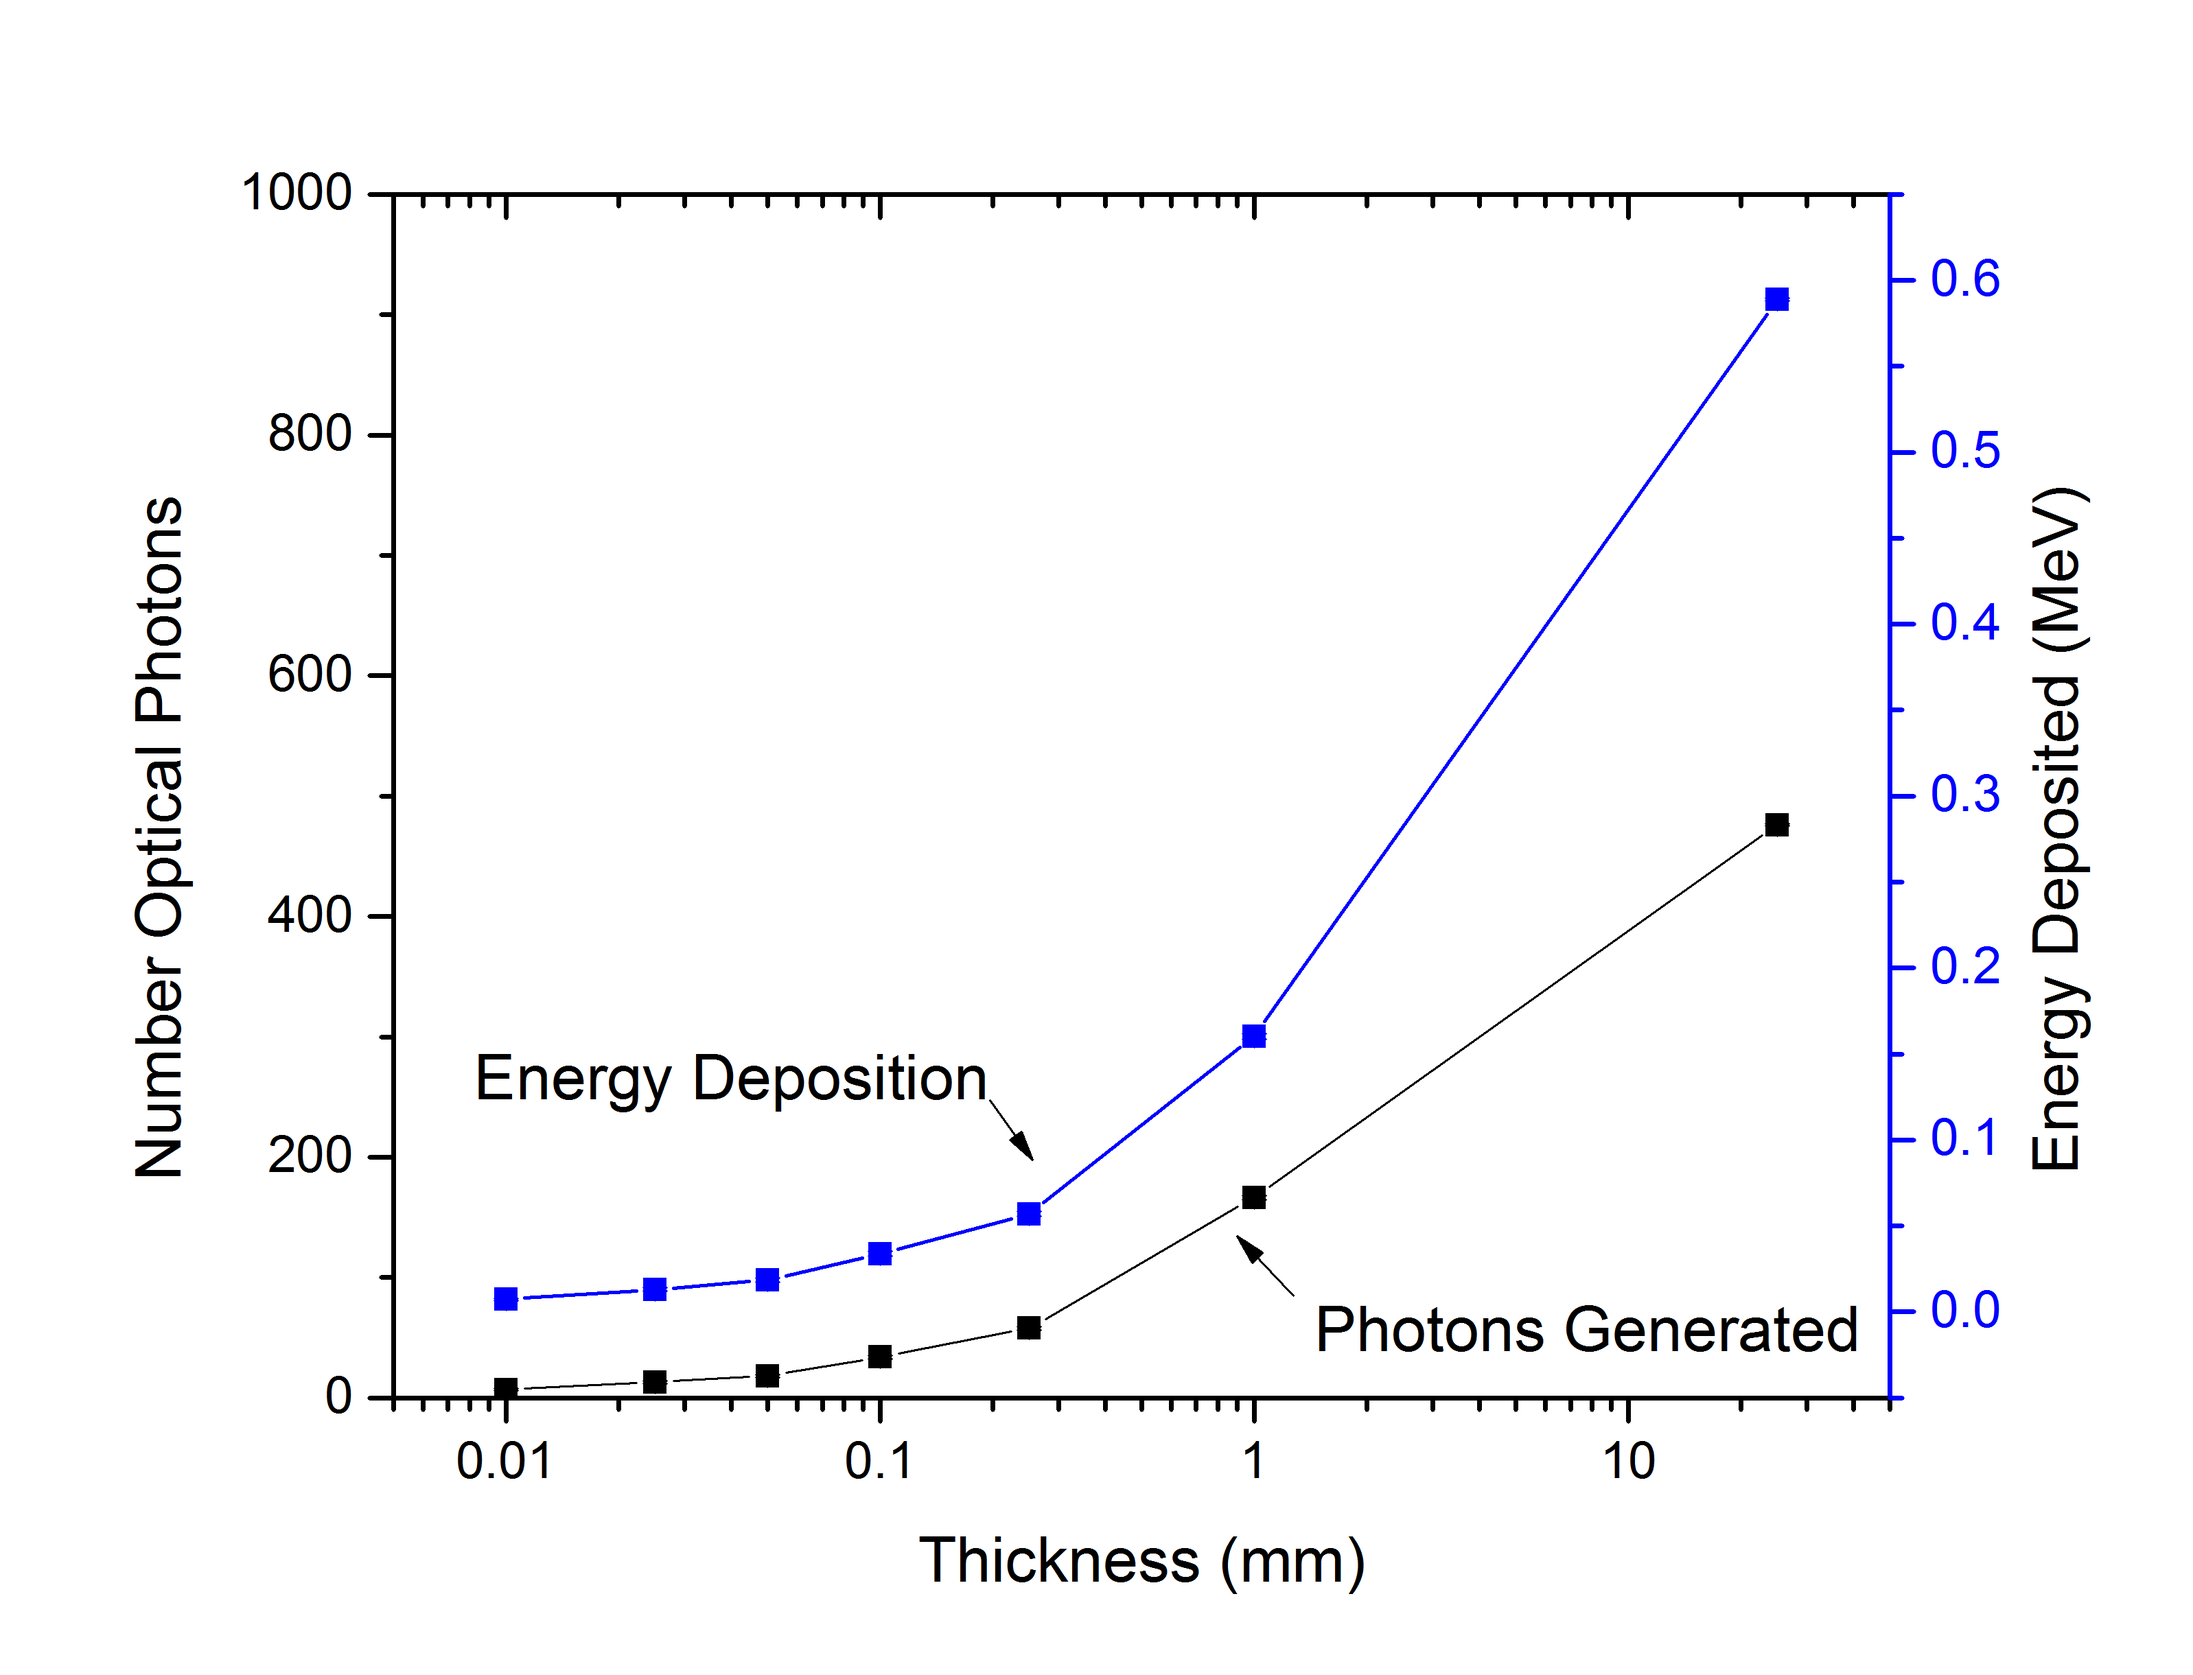
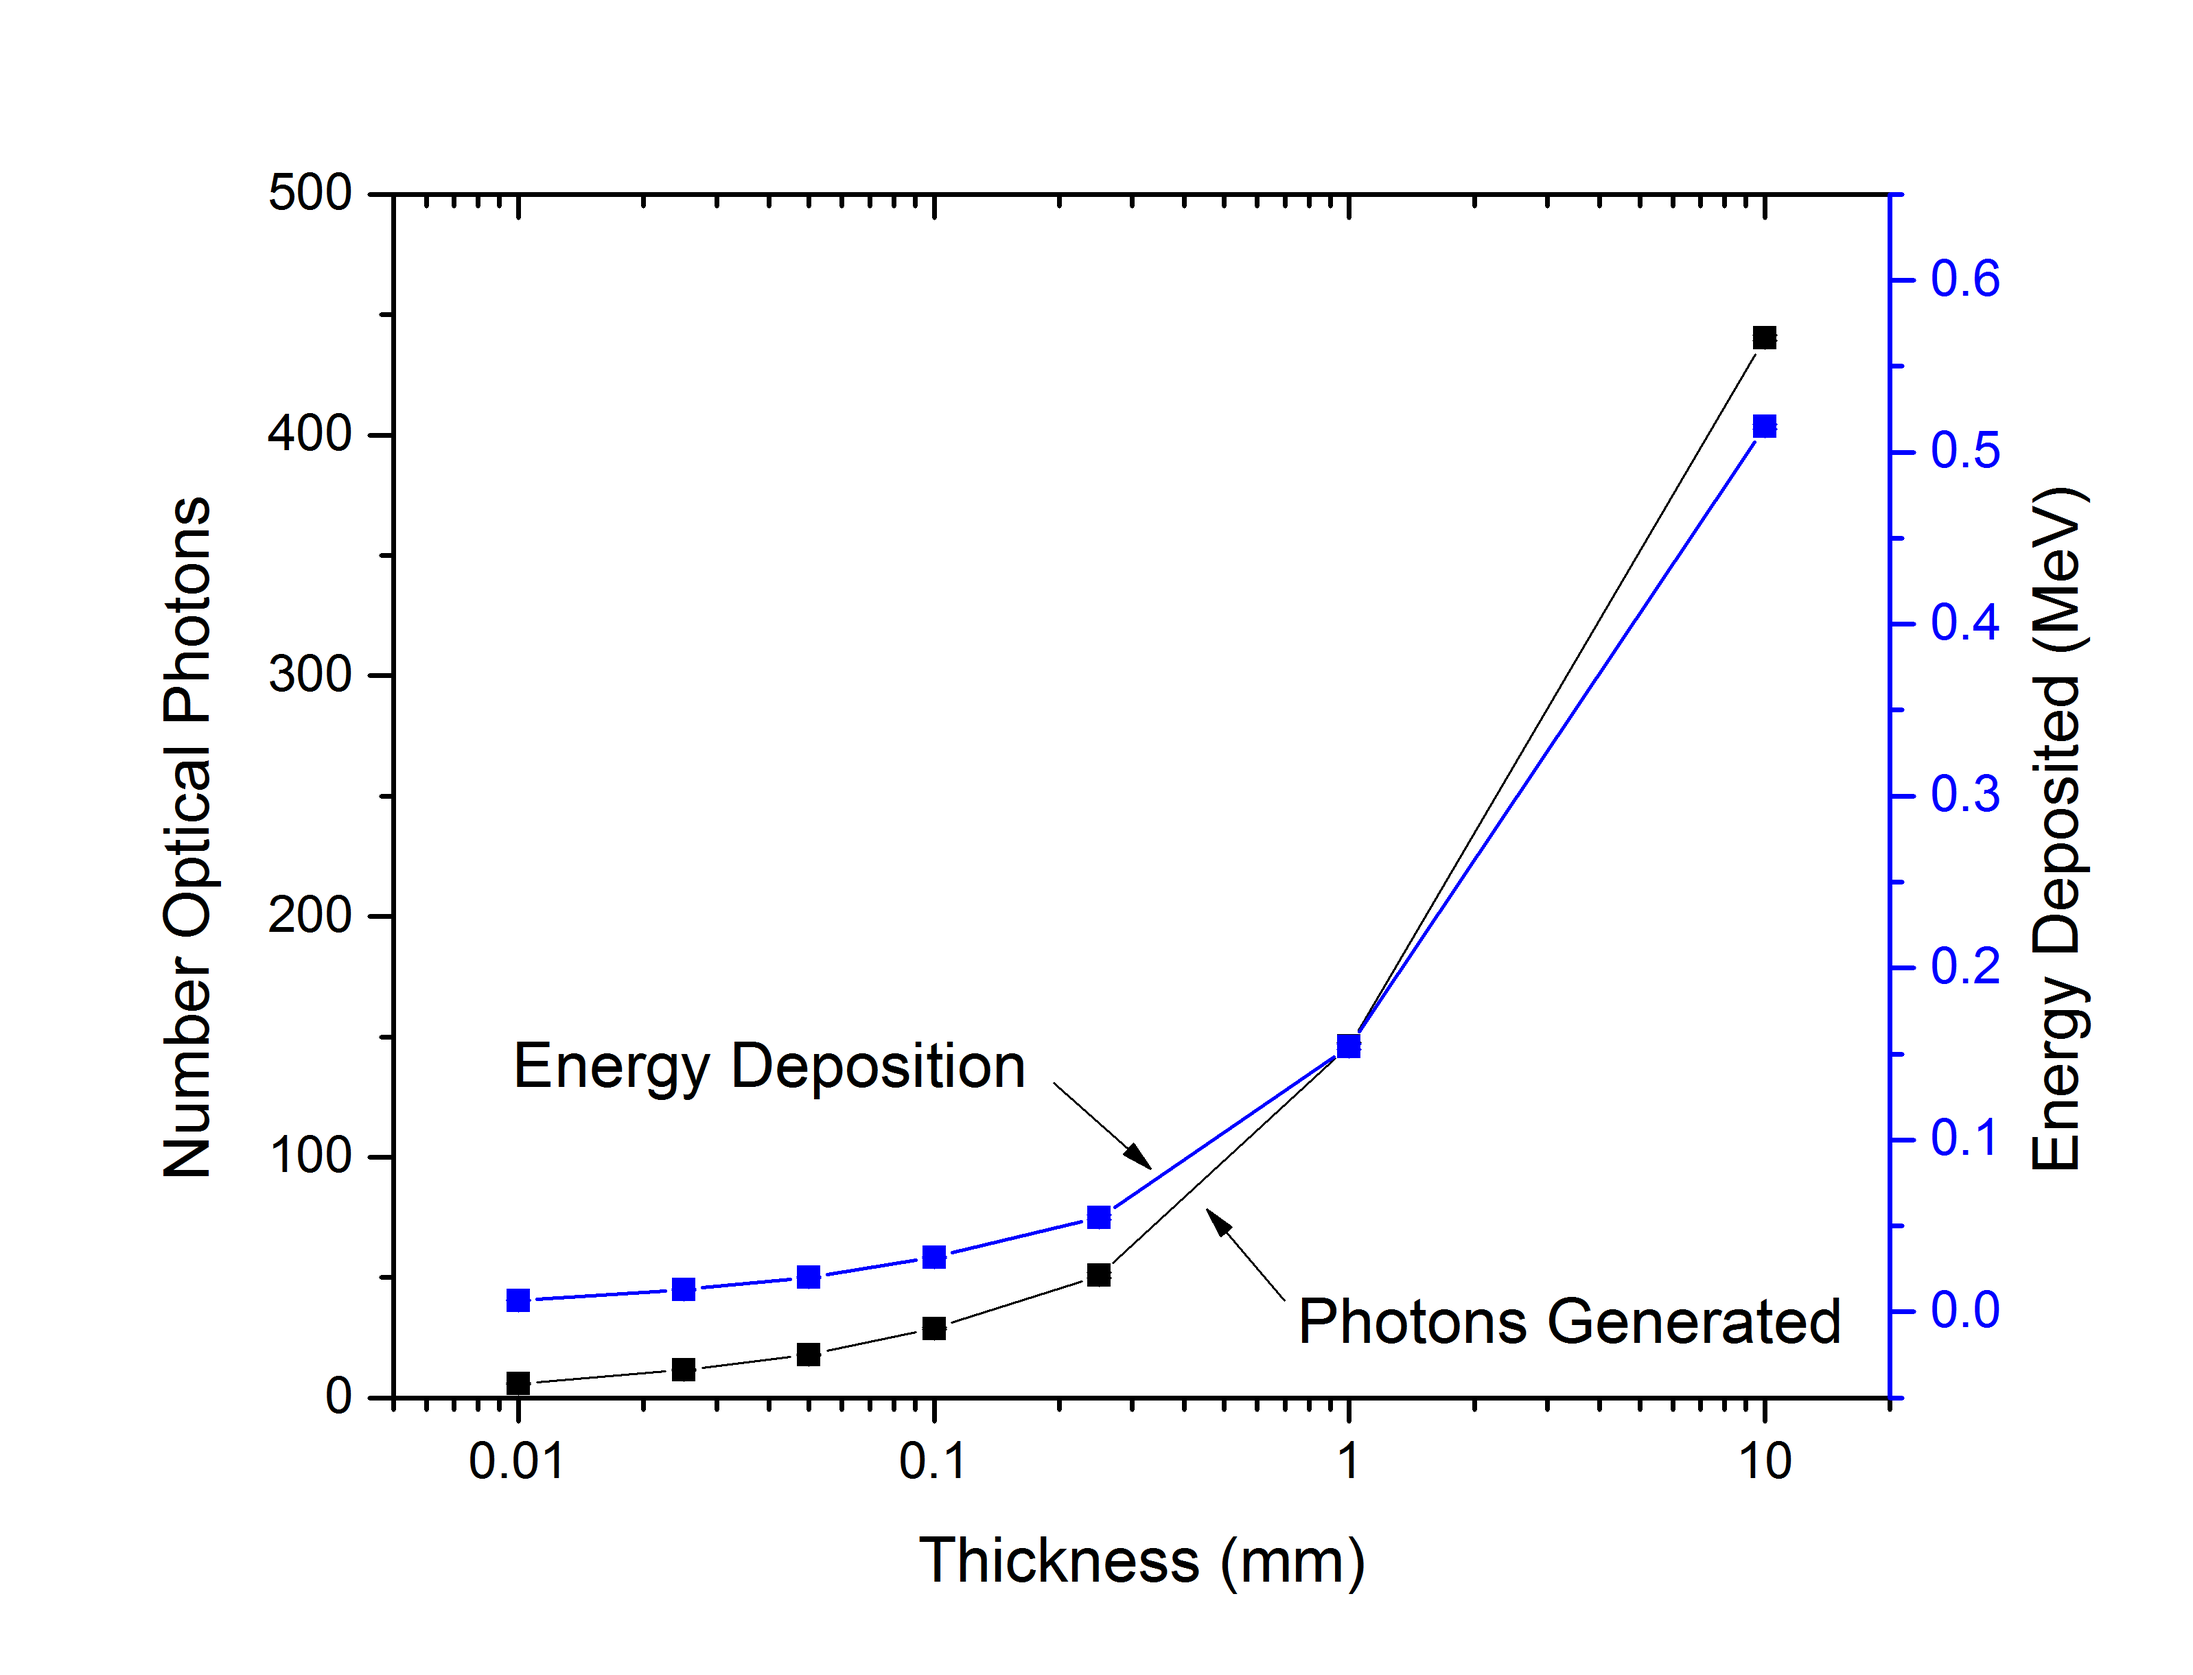
Fixed the light yield problem

diff --git a/chapters/secElec.tex b/chapters/secElec.tex
@@ -197,7 +197,7 @@ These simulations (summerized in \autoref{fig:EDepLightYield}) show that as expe
   \label{fig:EDepLightYield}
 \end{figure*}
 However, it is instructive to look at the distrubtions of how many photons were created per event.
-As the films become thicker and more of the triton energy is captured the response of the triton starts to dominate the alpha (\autoref{fig:NeutronPhotonsGenSim}), resulting in the number of photons peaking around around 2,500 photons for this simulated sample.
+As the films become thicker and more of the triton energy is captured the response of the triton starts to dominate the alpha (\autoref{fig:NeutronPhotonsGenSim}), resulting in the number of photons peaking around around 650 photons for this simulated sample.
 For photons, shown in \autoref{fig:GammaPhotonsGenSim}, it is observed that the distribution is flat for very thick films, but for thinner films the probablity is greatly increased for an event to generate a low number of photons.
 \begin{figure}
   \centering
@@ -210,6 +210,12 @@ For photons, shown in \autoref{fig:GammaPhotonsGenSim}, it is observed that the 
   \includegraphics[width=\textwidth]{Gamma_PhotonsGenerated_Sim}
   \caption[Number of photons generated from gamma interactions]{Simulated number of photons generated from gamma interactions.}
   \label{fig:GammaPhotonsGenSim}
+\end{figure}
+\begin{figure}
+  \centering
+  \includegraphics[width=\textwidth]{NeutronGamma_PhotonsGenerated_Sim}
+  \caption[Number of photons generated of a 1 mm for neutron and gamma interactions]{Simulated number of photons generated from neutron and gamma interactions.}
+  \label{fig:NeutronGammaPhotonsGenSim}
 \end{figure}
 
 \section{Pulse Height Discimination}
